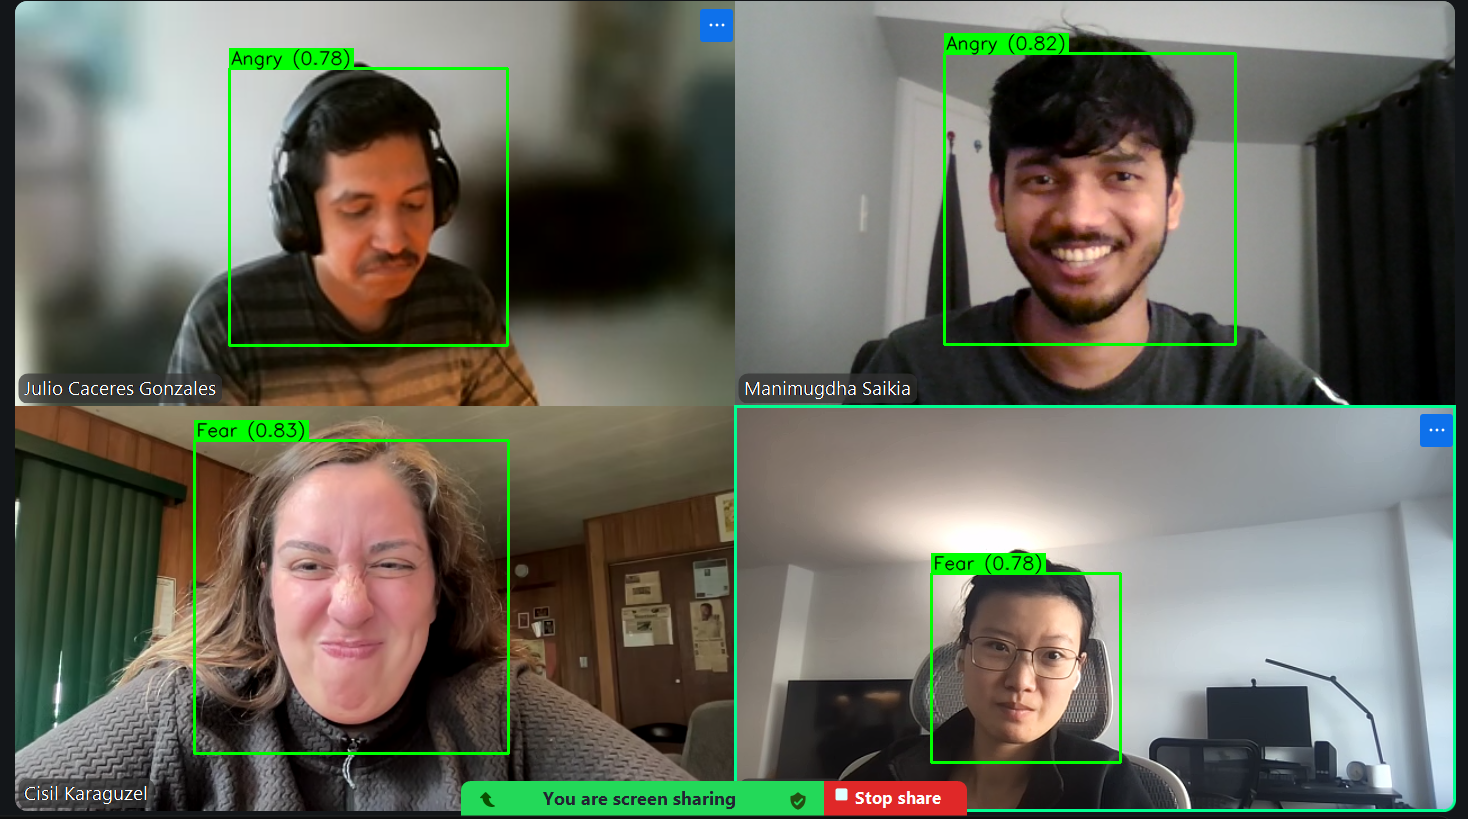
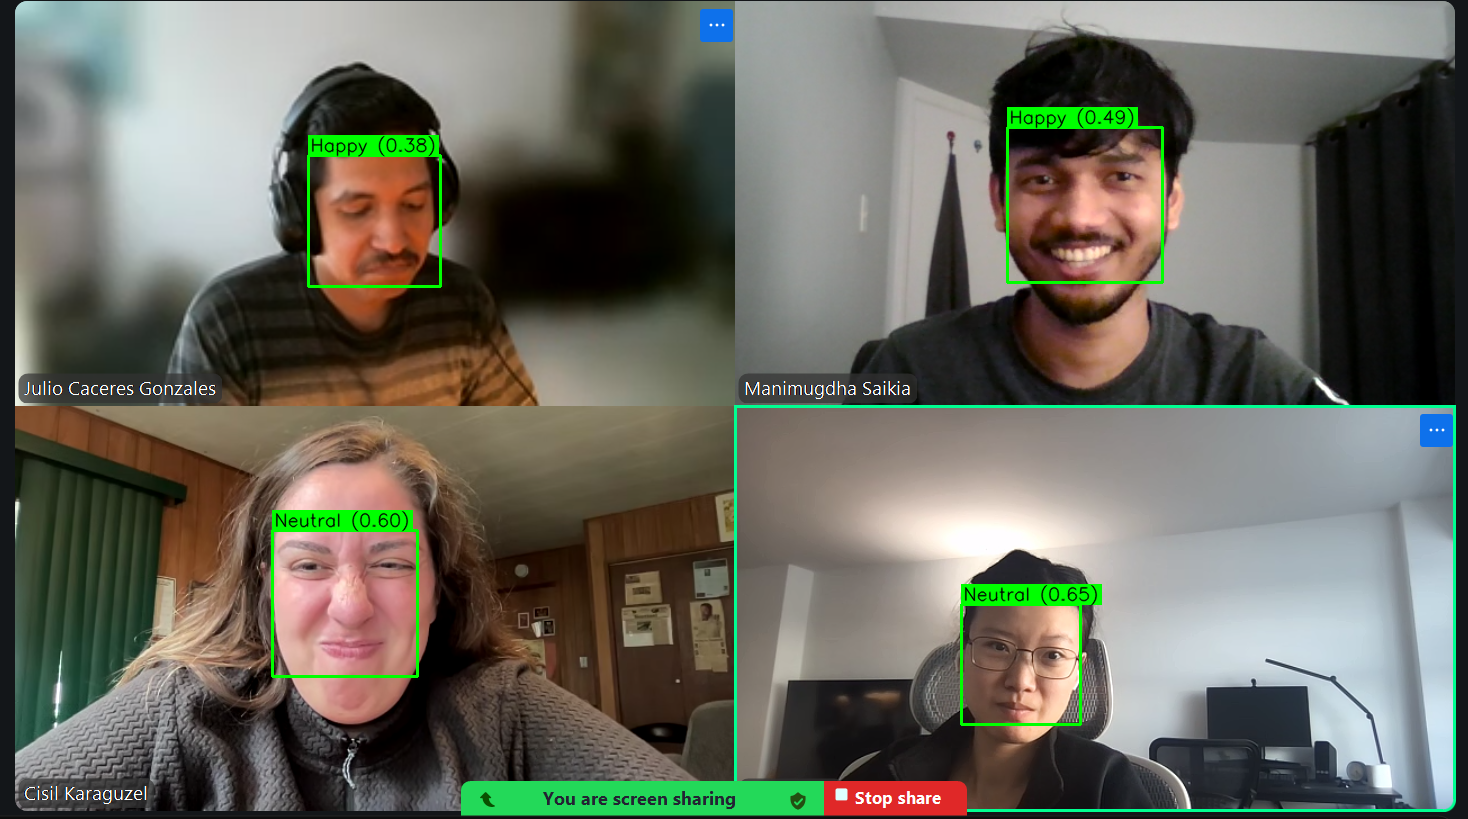
changes in yolo_model annotation plot

diff --git a/app/yolo_model/model.py b/app/yolo_model/model.py
@@ -51,9 +51,50 @@ def results_to_df(results) -> pd.DataFrame:
         })
     return pd.DataFrame(rows)
 
-def annotate_image(results) -> Image.Image:
-    """Return annotated PIL image from Ultralytics results."""
-    return Image.fromarray(results.plot())
+def _expand_and_clip_box(xyxy: np.ndarray, expand: float, W: int, H: int) -> np.ndarray:
+    x1, y1, x2, y2 = xyxy
+    w = x2 - x1
+    h = y2 - y1
+    cx = (x1 + x2) / 2
+    cy = (y1 + y2) / 2
+    # make it square then expand
+    side = max(w, h) * expand
+    x1n = max(0, int(round(cx - side/2)))
+    y1n = max(0, int(round(cy - side/2)))
+    x2n = min(W-1, int(round(cx + side/2)))
+    y2n = min(H-1, int(round(cy + side/2)))
+    return np.array([x1n, y1n, x2n, y2n], dtype=np.int32)
+
+import cv2
+def annotate_image(res) -> Image.Image:
+    expand_factor = 1.3
+    font_scale = 0.6
+    font_thickness = 1
+    H, W = res.plot().shape[:2]
+    boxes_xyxy = res.boxes.xyxy.cpu().numpy().astype(np.float32)
+    confs = res.boxes.conf.cpu().numpy().astype(np.float32)
+    emo_dic = {0:'Neutral',1:'Happy',2:'Surprise',3:'Sad',4:'Angry',5:'Fear',6:'Disgust'}
+    emotions = [emo_dic[int(x)] for x in res.boxes.cls.tolist()]
+    faces = []
+    for i, (xyxy, score, emotion) in enumerate(zip(boxes_xyxy, confs, emotions)):
+        xyxy_exp = _expand_and_clip_box(xyxy, expand_factor, W, H)
+        faces.append({
+            "det_idx": i,
+            "xyxy_exp": xyxy_exp.tolist(),
+            "det_conf": float(score),
+            "emotion": emotion 
+        })
+    canvas = cv2.cvtColor(res.orig_img.copy(), cv2.COLOR_BGR2RGB) 
+    for f in faces:
+        x1, y1, x2, y2 = map(int, f["xyxy_exp"])
+        cv2.rectangle(canvas, (x1, y1), (x2, y2), (0, 255, 0), 2)
+        label = f'{f["emotion"]} ({f["det_conf"]:.2f})'
+        (tw, th), bl = cv2.getTextSize(label, cv2.FONT_HERSHEY_SIMPLEX, font_scale, font_thickness)
+        cv2.rectangle(canvas, (x1, y1 - th - 6), (x1 + tw + 4, y1), (0, 255, 0), -1)
+        cv2.putText(canvas, label, (x1 + 2, y1 - 4),
+            cv2.FONT_HERSHEY_SIMPLEX, font_scale, (0, 0, 0), font_thickness, cv2.LINE_AA)
+    custom_img = Image.fromarray(cv2.cvtColor(canvas, cv2.COLOR_BGR2RGB))
+    return custom_img
 
 def save_df(df: pd.DataFrame, path: Path):
     path.parent.mkdir(parents=True, exist_ok=True)

diff --git a/app/app.py b/app/app.py
@@ -106,7 +106,7 @@ def app_processing(uploaded_file):
                     cfg
                     )
                 annotated_img = Image.open(uploaded_file.replace(".", "_annotated."))
-                df = two_step_pipeline.faces_to_df(result).drop(columns=['image_path'])
+                df = two_step_pipeline.faces_to_df(result).drop(columns=['image_path', 'prob_of_emotion'])
                 df.to_csv(uploaded_file.split(".", 1)[0] + ".csv")
                 if len(df) != 0:
                     st.image(annotated_img, caption="Annotated Output", width='stretch')
